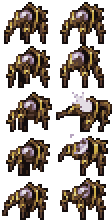
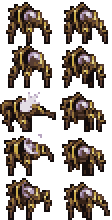
Automata creeper

diff --git a/NPCs/Automata/AutomataCreeper.cs b/NPCs/Automata/AutomataCreeper.cs
@@ -3,14 +3,24 @@ using Microsoft.Xna.Framework.Graphics;
 using Terraria;
 using Terraria.ID;
 using Terraria.ModLoader;
+using System;
 
 namespace SpiritMod.NPCs.Automata
 {
 	public class AutomataCreeper : ModNPC
 	{
 
-		bool attacking = false;
-		Vector2 moveDirection;
+		protected bool attacking = false;
+		protected Vector2 moveDirection;
+		protected Vector2 newVelocity = Vector2.Zero;
+
+		protected int initialDirection = 0;
+
+		protected int aiCounter = 0;
+
+		protected const int TIMERAMOUNT = 300;
+
+		Vector2 oldVelocity = Vector2.Zero;
 		public override void SetStaticDefaults()
 		{
 			DisplayName.SetDefault("Automata Creeper");
@@ -29,20 +39,69 @@ namespace SpiritMod.NPCs.Automata
 			npc.value = 10000f;
 			npc.knockBackResist = 0;
 			npc.noGravity = true;
-			moveDirection = new Vector2((Main.rand.Next(2) * 2) - 1, 0);
-			npc.noTileCollide = false;
+			initialDirection = (Main.rand.Next(2) * 2) - 1;
+			moveDirection = new Vector2(initialDirection, 0);
+			npc.noTileCollide = true;
 		}
 		public override void AI()
         {
+			aiCounter++;
+			if (aiCounter % TIMERAMOUNT == 200)
+			{
+				attacking = true;
+				npc.frameCounter = 0;
+				oldVelocity = npc.velocity;
+			}
+			if (aiCounter % TIMERAMOUNT == 0)
+			{
+				attacking = false;
+				npc.velocity = oldVelocity;
+			}
+
 			if (!attacking)
             {
 				Crawl();
             }
+			else
+			{
+				Attack();
+			}
         }
+		protected void Attack()
+		{
+			npc.velocity = Vector2.Zero;
+		}
 
-		private void Crawl()
+		protected virtual Vector2 Collide()
+		{
+			return Collision.noSlopeCollision(npc.position, npc.velocity, npc.width, npc.height, true, true);
+		}
+
+		protected virtual void RotateCrawl()
+		{
+
+			float rotDifference = ((((npc.velocity.ToRotation() - npc.rotation) % 6.28f) + 9.42f) % 6.28f) - 3.14f;
+			if (Math.Abs(rotDifference) < 0.15f)
+			{
+				npc.rotation = npc.velocity.ToRotation();
+				return;
+			}
+			npc.rotation += Math.Sign(rotDifference) * 0.1f;
+		}
+		protected void Crawl()
         {
-			npc.rotation = npc.velocity.ToRotation() + 3.14f;
+			newVelocity = Collide();
+			if (Math.Abs(newVelocity.X) < 0.5f)
+				npc.collideX = true;
+			else
+				npc.collideX = false;
+			if (Math.Abs(newVelocity.Y) < 0.5f)
+				npc.collideY = true;
+			else
+				npc.collideY = false;
+
+			RotateCrawl();
+
 			if (npc.ai[0] == 0f)
 			{
 				npc.TargetClosest(true);
@@ -87,11 +146,12 @@ namespace SpiritMod.NPCs.Automata
 				}
 			}
 			npc.velocity = speed * moveDirection;
+			npc.velocity = Collide();
 		}
 
 		public override bool PreDraw(SpriteBatch spriteBatch, Color drawColor)
 		{
-			spriteBatch.Draw(Main.npcTexture[npc.type], npc.Center - Main.screenPosition, npc.frame, drawColor, npc.rotation, npc.frame.Size() / 2, npc.scale, SpriteEffects.None, 0);
+			spriteBatch.Draw(Main.npcTexture[npc.type], npc.Center - Main.screenPosition, npc.frame, drawColor, npc.rotation % 6.28f, npc.frame.Size() / 2, npc.scale, initialDirection == 1 ? SpriteEffects.FlipVertically : SpriteEffects.None, 0);
 			return false;
 		}
 
@@ -108,13 +168,13 @@ namespace SpiritMod.NPCs.Automata
 			npc.frame.Y = frame * frameHeight;
 			if (attacking)
 			{
-				npc.frameCounter += 0.40f;
-				npc.frame.X = npc.frame.Width;
+				npc.frameCounter += 0.20f;
+				npc.frame.X = 0;
 			}
 			else
 			{
-				npc.frameCounter += 0.40f;
-				npc.frame.X = 0;
+				npc.frameCounter += 0.20f;
+				npc.frame.X = npc.frame.Width;
 			}
 		}
 	}
